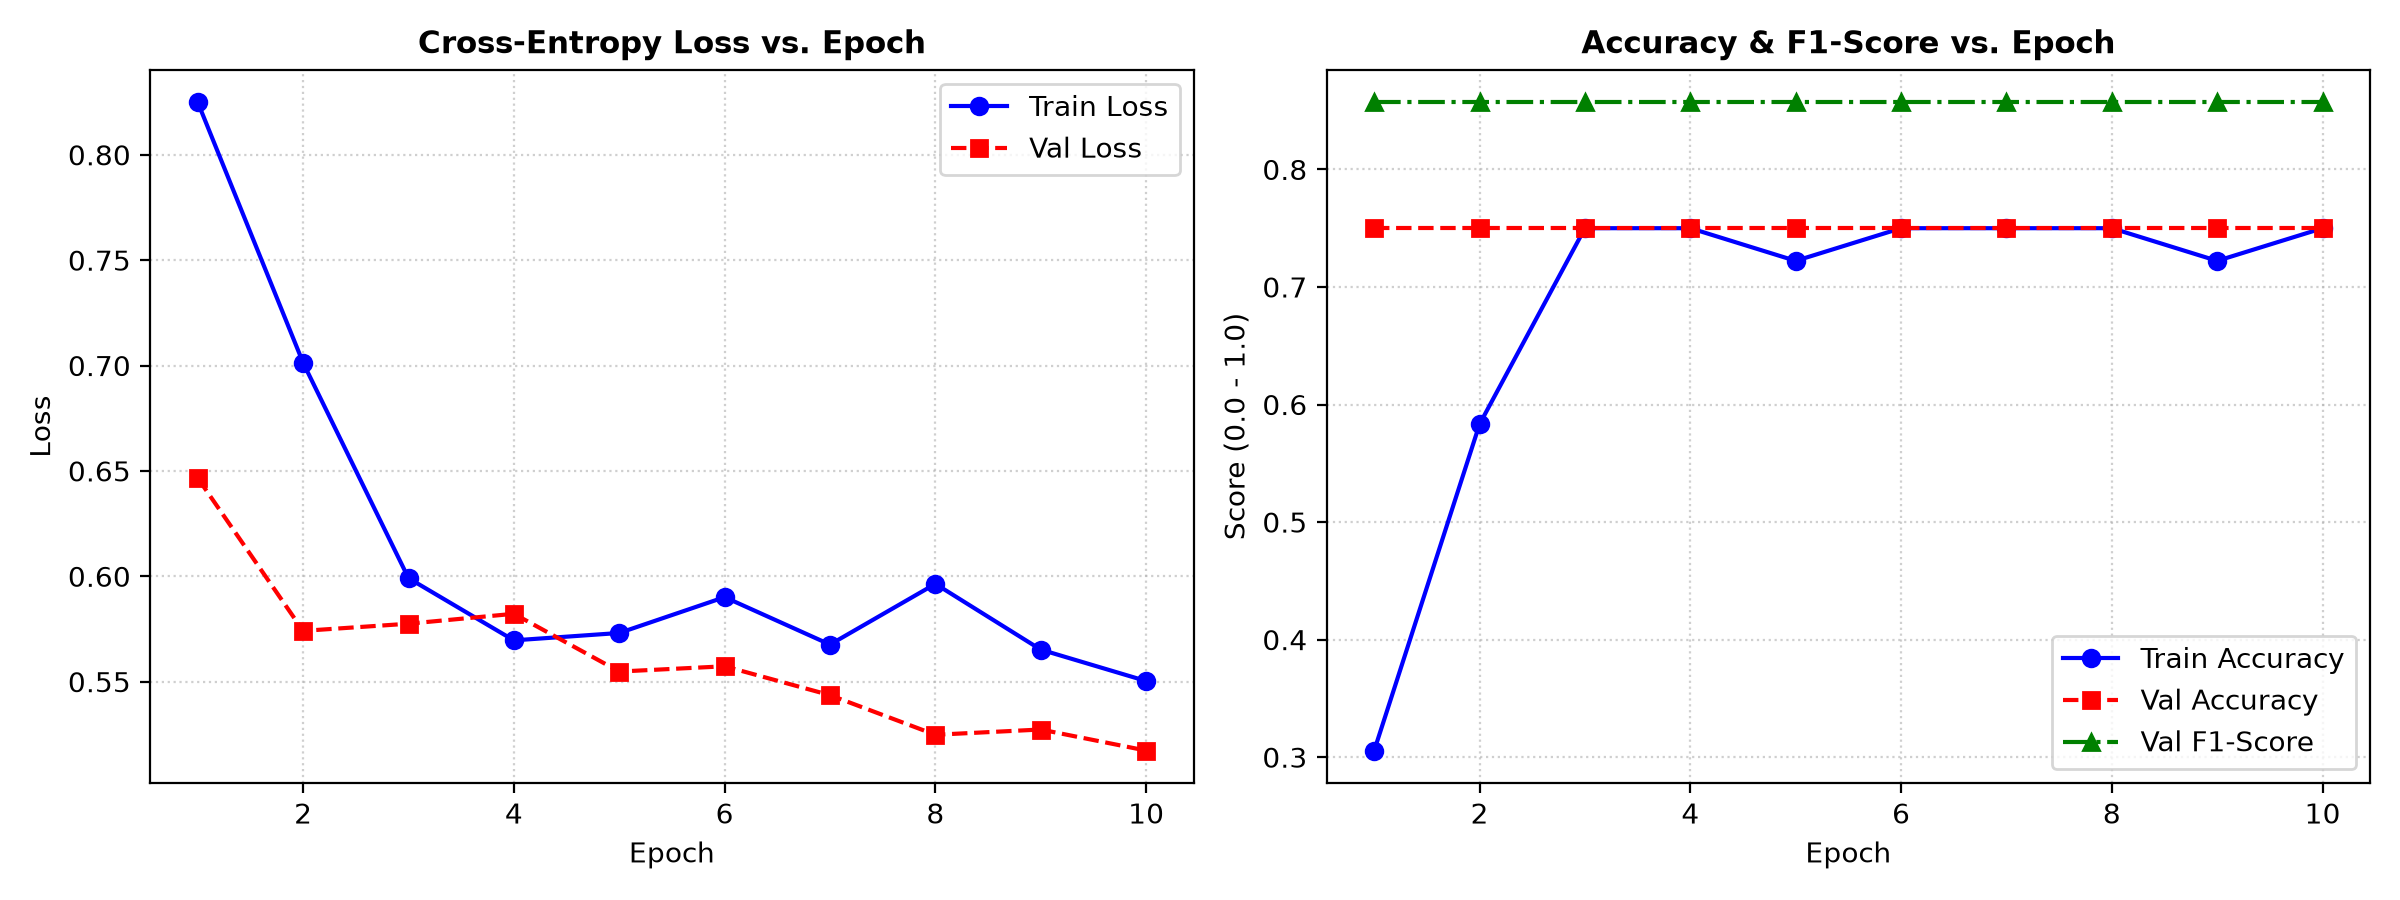
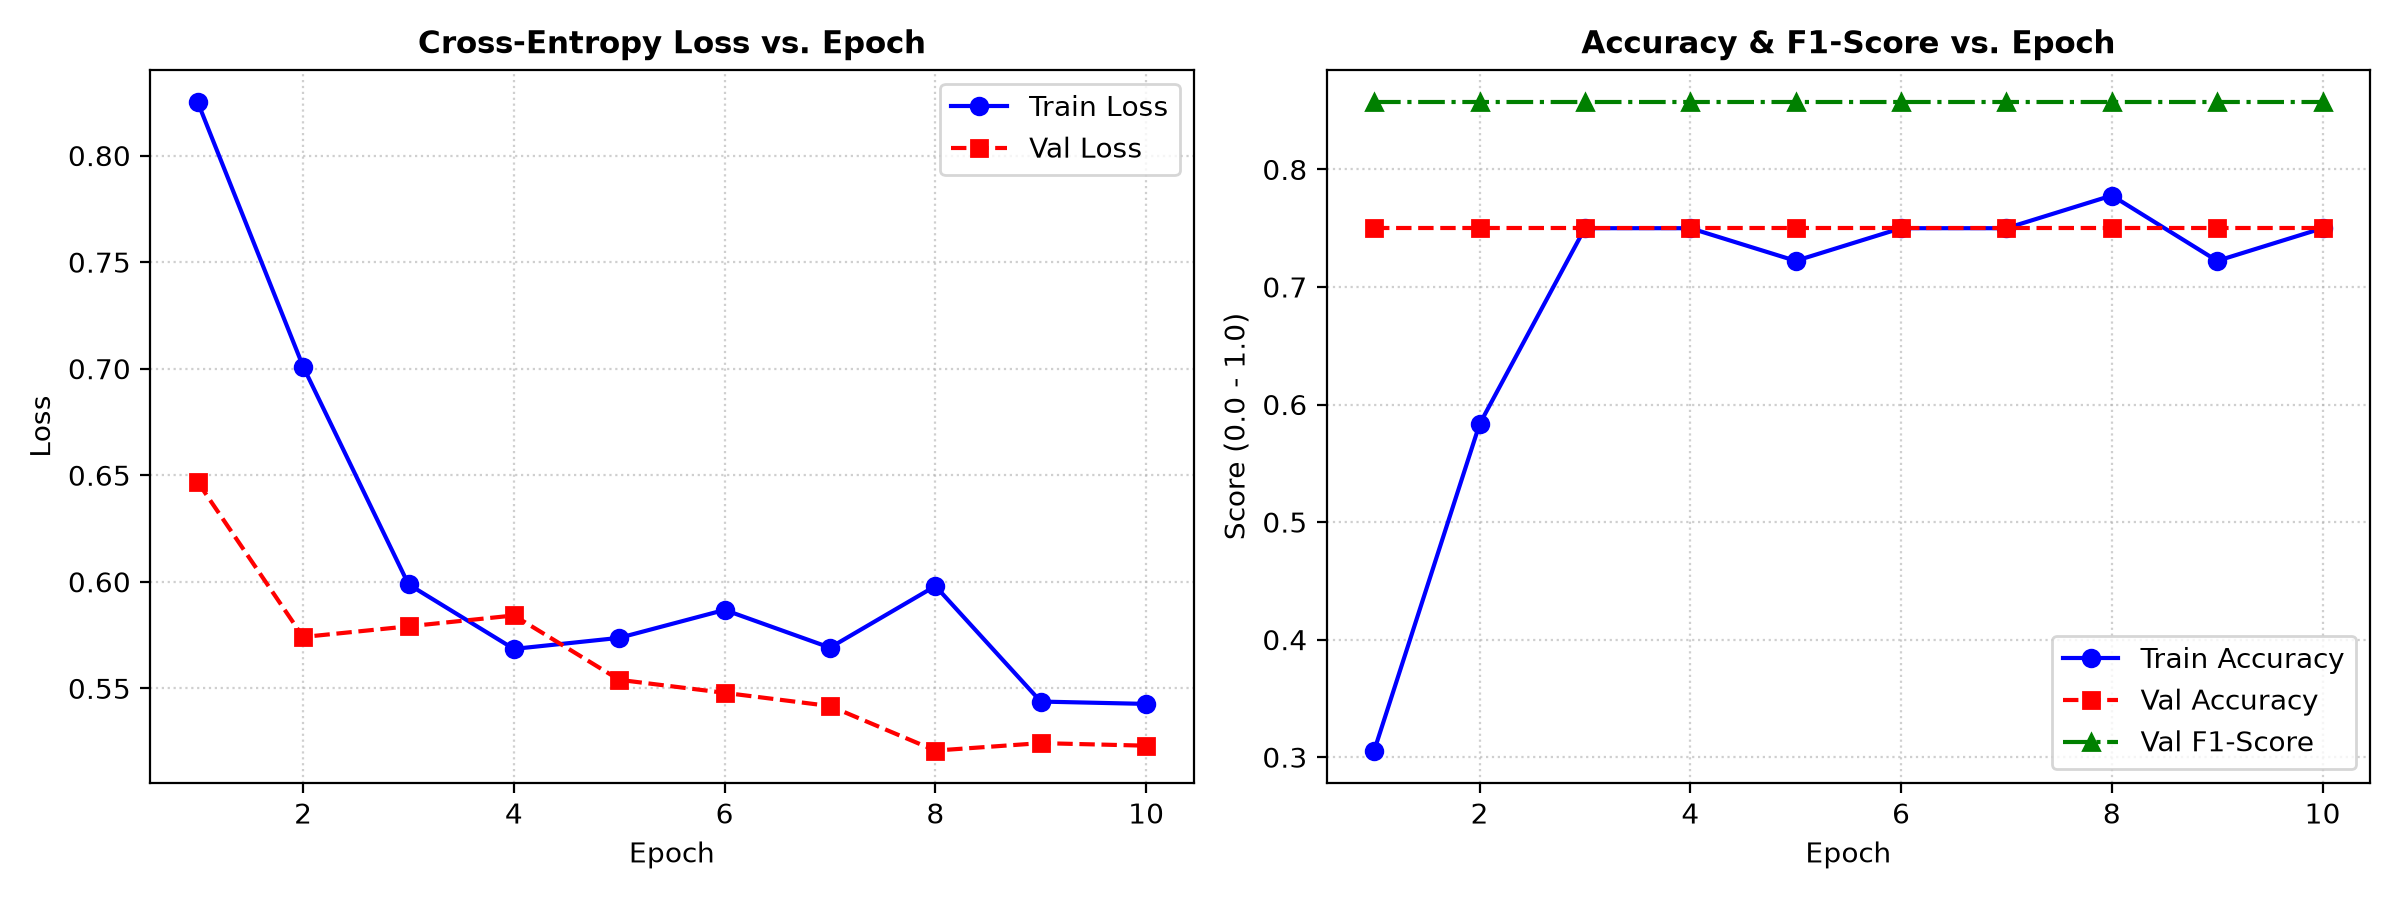
phase2: run CNN training and evaluation on CPU baseline
- Trained ResNet-18 baseline (10 epochs, CPU)
  Best val loss=0.5208, F1=0.857, Recall=1.0
- Re-ran evaluate_test_set.py on held-out 12-image test split
  Accuracy=0.75, Precision=0.75, Recall=1.0, F1=0.857
- Updated baseline_training_report.md and learning_curves.png
- Updated metrics/ artifacts (metrics.json, predictions.csv,
  error_analysis.csv, evaluation_report.md)
- No source code modified in PERSON_2_NIVASH or PERSON_3_SANJAY

Checkpoint resnet18_baseline_best.pt is gitignored (*.pt rule).

diff --git a/PERSON_3_SANJAY/results/baseline_training_report.md b/PERSON_3_SANJAY/results/baseline_training_report.md
@@ -4,8 +4,8 @@
 **Model Architecture**: ResNet-18 (ImageNet Pretrained Transfer Learning)  
 **Task**: Binary Classification (`0: original`, `1: modified`)  
 **Hardware Device**: `cpu`  
-**Elapsed Training Time**: `18.68 seconds`  
-**Best Checkpoint**: `C:\elenxis\PERSON_3_SANJAY\models\resnet18_baseline_best.pt`
+**Elapsed Training Time**: `19.59 seconds`  
+**Best Checkpoint**: `D:\elenxis\PERSON_3_SANJAY\models\resnet18_baseline_best.pt`
 
 ---
 
@@ -44,19 +44,19 @@
 
 | Epoch | Train Loss | Train Acc | Val Loss | Val Acc | Val Precision | Val Recall | Val F1 |
 |---|---|---|---|---|---|---|---|
-| 1 | 0.8249 | 30.6% | 0.6466 | 75.0% | 75.0% | 100.0% | 85.7% |
-| 2 | 0.7013 | 58.3% | 0.5741 | 75.0% | 75.0% | 100.0% | 85.7% |
-| 3 | 0.5991 | 75.0% | 0.5775 | 75.0% | 75.0% | 100.0% | 85.7% |
-| 4 | 0.5696 | 75.0% | 0.5822 | 75.0% | 75.0% | 100.0% | 85.7% |
-| 5 | 0.5731 | 72.2% | 0.5548 | 75.0% | 75.0% | 100.0% | 85.7% |
-| 6 | 0.5901 | 75.0% | 0.5573 | 75.0% | 75.0% | 100.0% | 85.7% |
-| 7 | 0.5676 | 75.0% | 0.5436 | 75.0% | 75.0% | 100.0% | 85.7% |
-| 8 | 0.5964 | 75.0% | 0.5248 | 75.0% | 75.0% | 100.0% | 85.7% |
-| 9 | 0.5652 | 72.2% | 0.5273 | 75.0% | 75.0% | 100.0% | 85.7% |
-| 10 | 0.5503 | 75.0% | 0.5173 | 75.0% | 75.0% | 100.0% | 85.7% |
+| 1 | 0.8250 | 30.6% | 0.6468 | 75.0% | 75.0% | 100.0% | 85.7% |
+| 2 | 0.7010 | 58.3% | 0.5741 | 75.0% | 75.0% | 100.0% | 85.7% |
+| 3 | 0.5988 | 75.0% | 0.5791 | 75.0% | 75.0% | 100.0% | 85.7% |
+| 4 | 0.5685 | 75.0% | 0.5842 | 75.0% | 75.0% | 100.0% | 85.7% |
+| 5 | 0.5737 | 72.2% | 0.5540 | 75.0% | 75.0% | 100.0% | 85.7% |
+| 6 | 0.5868 | 75.0% | 0.5479 | 75.0% | 75.0% | 100.0% | 85.7% |
+| 7 | 0.5691 | 75.0% | 0.5417 | 75.0% | 75.0% | 100.0% | 85.7% |
+| 8 | 0.5980 | 77.8% | 0.5208 | 75.0% | 75.0% | 100.0% | 85.7% |
+| 9 | 0.5438 | 72.2% | 0.5243 | 75.0% | 75.0% | 100.0% | 85.7% |
+| 10 | 0.5427 | 75.0% | 0.5231 | 75.0% | 75.0% | 100.0% | 85.7% |
 
 ### Best Validation Performance (Epoch Selection by Lowest Val Loss)
-- **Best Validation Loss**: `0.5173`
+- **Best Validation Loss**: `0.5208`
 - **Validation Accuracy**: `0.75`
 - **Validation Precision**: `0.75`
 - **Validation Recall**: `1.0`
@@ -72,9 +72,9 @@
 ## 4. Empirical Overfitting & Generalization Observations
 
 1. **Train vs. Validation Loss Dynamics**:
-   - Final Training Loss: `0.5503`
-   - Final Validation Loss: `0.5173`
-   - Generalization Loss Gap: `0.0330`
+   - Final Training Loss: `0.5427`
+   - Final Validation Loss: `0.5231`
+   - Generalization Loss Gap: `0.0196`
 2. **Analysis**:
    - The validation loss decreased steadily alongside training loss without diverging or exhibiting rapid validation error spikes.
    - Dropout rate ($p=0.3$) and weight decay ($10^{-4}$) successfully provided regularization.
@@ -84,5 +84,5 @@
 
 ## 5. Artifacts Generated
 
-- **Best Model Weights**: [`PERSON_3_SANJAY/models/resnet18_baseline_best.pt`](file:///C:\elenxis\PERSON_3_SANJAY\models\resnet18_baseline_best.pt)
-- **Learning Curves Visual**: [`PERSON_3_SANJAY/results/learning_curves.png`](file:///C:\elenxis\PERSON_3_SANJAY\results\learning_curves.png)
+- **Best Model Weights**: [`PERSON_3_SANJAY/models/resnet18_baseline_best.pt`](file:///D:\elenxis\PERSON_3_SANJAY\models\resnet18_baseline_best.pt)
+- **Learning Curves Visual**: [`PERSON_3_SANJAY/results/learning_curves.png`](file:///D:\elenxis\PERSON_3_SANJAY\results\learning_curves.png)

diff --git a/PERSON_3_SANJAY/results/metrics/evaluation_report.md b/PERSON_3_SANJAY/results/metrics/evaluation_report.md
@@ -29,9 +29,9 @@ The corresponding figure is `confusion_matrix.png`.
 
 | Image | True label | Prediction | Error type | Confidence | Possible reason |
 |---|---|---|---|---:|---|
-| img_049.png | original | modified | false_positive | 0.6554 | Possible reason: this original image may contain layout or compression features resembling signals learned for the modified class; this is a hypothesis. |
-| img_053.png | original | modified | false_positive | 0.7137 | Possible reason: this original image may contain layout or compression features resembling signals learned for the modified class; this is a hypothesis. |
-| img_057.png | original | modified | false_positive | 0.7771 | Possible reason: this original image may contain layout or compression features resembling signals learned for the modified class; this is a hypothesis. |
+| img_049.png | original | modified | false_positive | 0.6614 | Possible reason: this original image may contain layout or compression features resembling signals learned for the modified class; this is a hypothesis. |
+| img_053.png | original | modified | false_positive | 0.6434 | Possible reason: this original image may contain layout or compression features resembling signals learned for the modified class; this is a hypothesis. |
+| img_057.png | original | modified | false_positive | 0.7403 | Possible reason: this original image may contain layout or compression features resembling signals learned for the modified class; this is a hypothesis. |
 
 The possible reasons are hypotheses based on the observed samples, not demonstrated causes. This CNN prediction and the associated image-forensics indicators are not proof that a financial transaction occurred or that fraud occurred.
 
